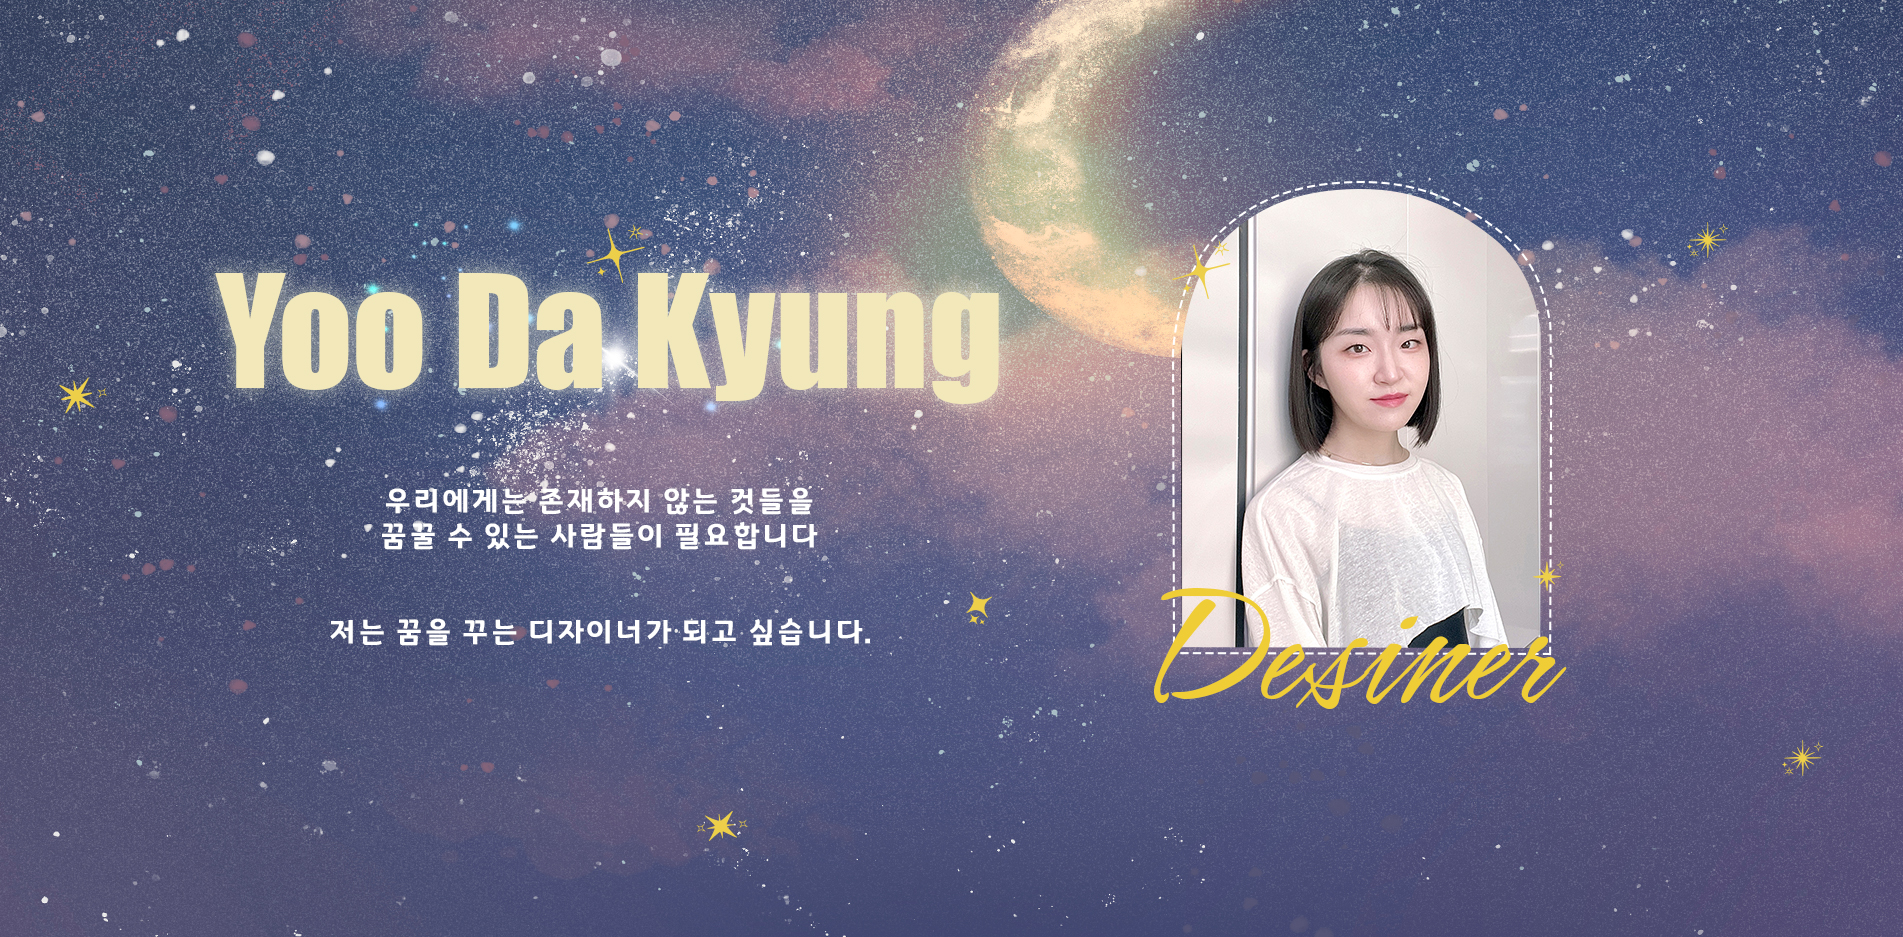
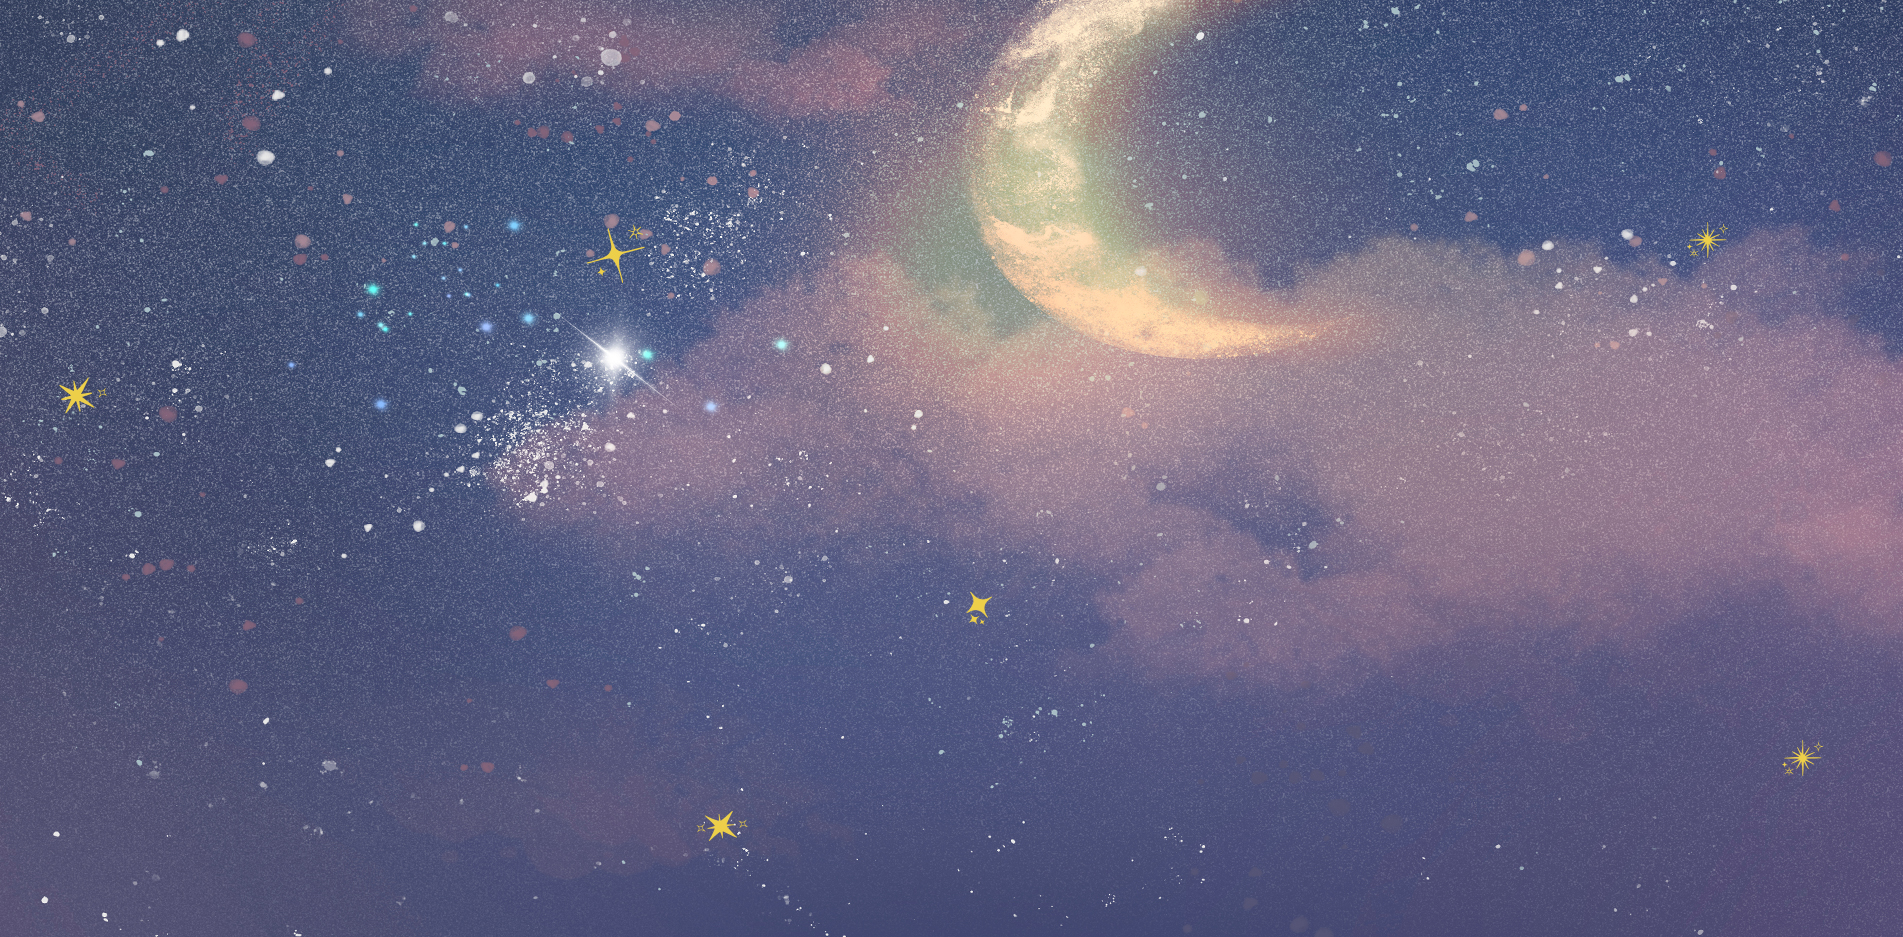
Add files via upload

diff --git a/index.html b/index.html
@@ -45,19 +45,8 @@
 	<div class="fh5co-loader"></div>
 	
 	<div id="page">	
-	<header id="fh5co-header" class="fh5co-cover js-fullheight" role="banner" style="background-image:url(images/cover_bg_3.jpg);" data-stellar-background-ratio="0.5">
-		<div class="overlay" style="background: url(images/background.jpg) no-repeat 50% 50%;"></div>
-		<div class="container">
-			<div class="row">
-				<div class="col-md-8 col-md-offset-2 text-center">
-					<div class="display-t js-fullheight">
-						<div class="display-tc js-fullheight animate-box" data-animate-effect="fadeIn">
-							<div class="profile-thumb"></div>
-						</div>
-					</div>
-				</div>
-			</div>
-		</div>
+	<header style="background-image: url(images/background.jpg);">
+		<div id="main_banner"><img src="images/background_png.png" alt="배경이미지"></div>
 	</header>
 
 	<div id="fh5co-about" class="animate-box">

diff --git a/css/style.css b/css/style.css
@@ -142,6 +142,17 @@ h1, h2, h3, h4, h5, h6, figure {
   transition: all 0.5s;
 }
 
+#fh5co-header{
+  width: 100%;
+}
+
+#main_banner img{
+  max-width: 100%;
+  display: block;
+  margin: auto;
+  padding:200px 50px 200px 50px;
+}
+
 
 #fh5co-header,
 .fh5co-cover {
@@ -1384,4 +1395,16 @@ padding-top:30px;}
 .row .sub{
   margin-right: 0px;
 }
+}
+
+@media (max-width: 991px){
+  #main_banner img{
+    padding:100px 50px 100px 50px;
+  }
+}
+
+@media (max-width: 692px){
+  #main_banner img{
+    padding:40px 30px 40px 30px;
+  }
 }
